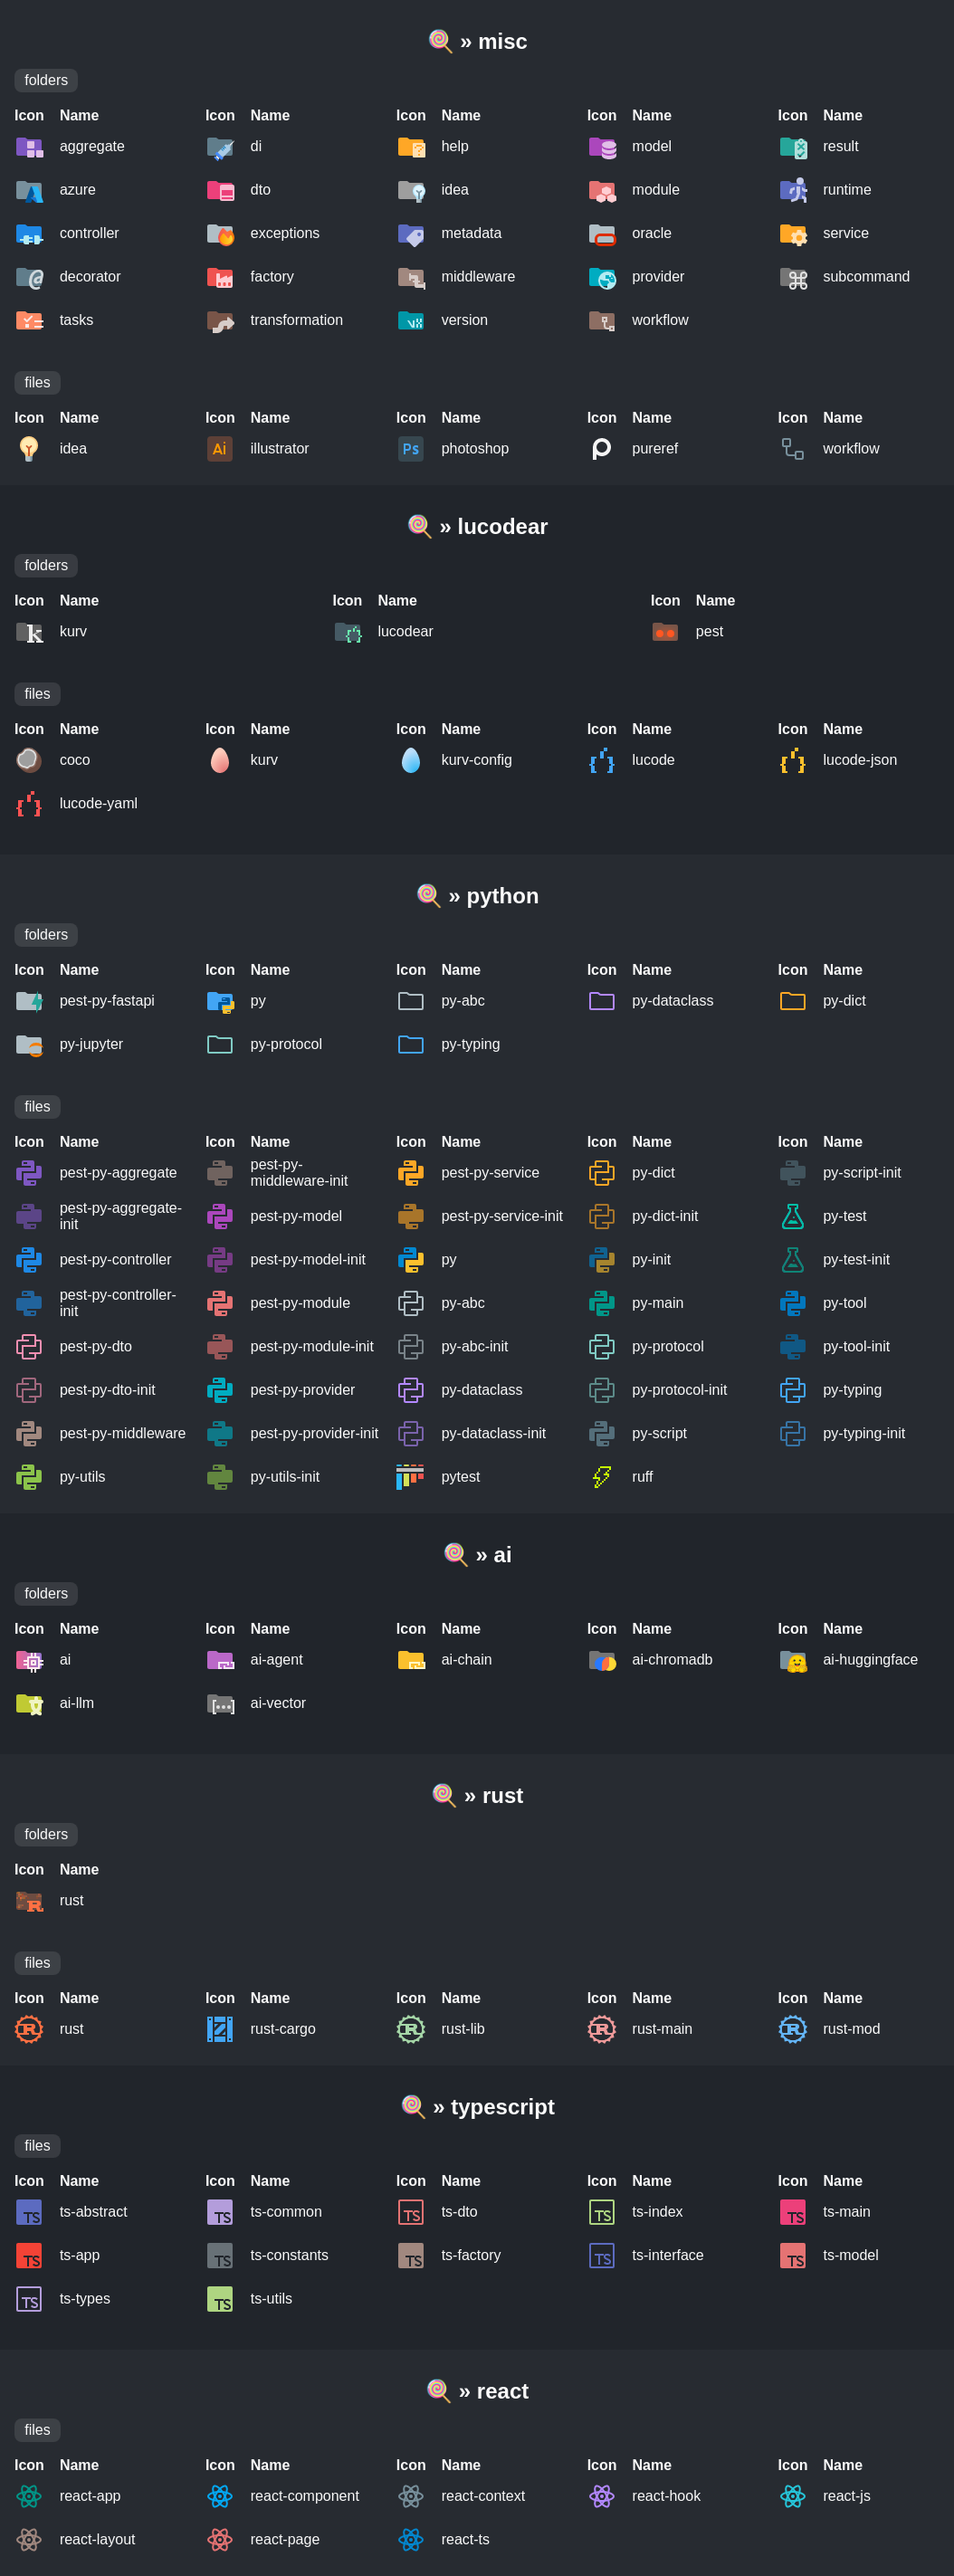
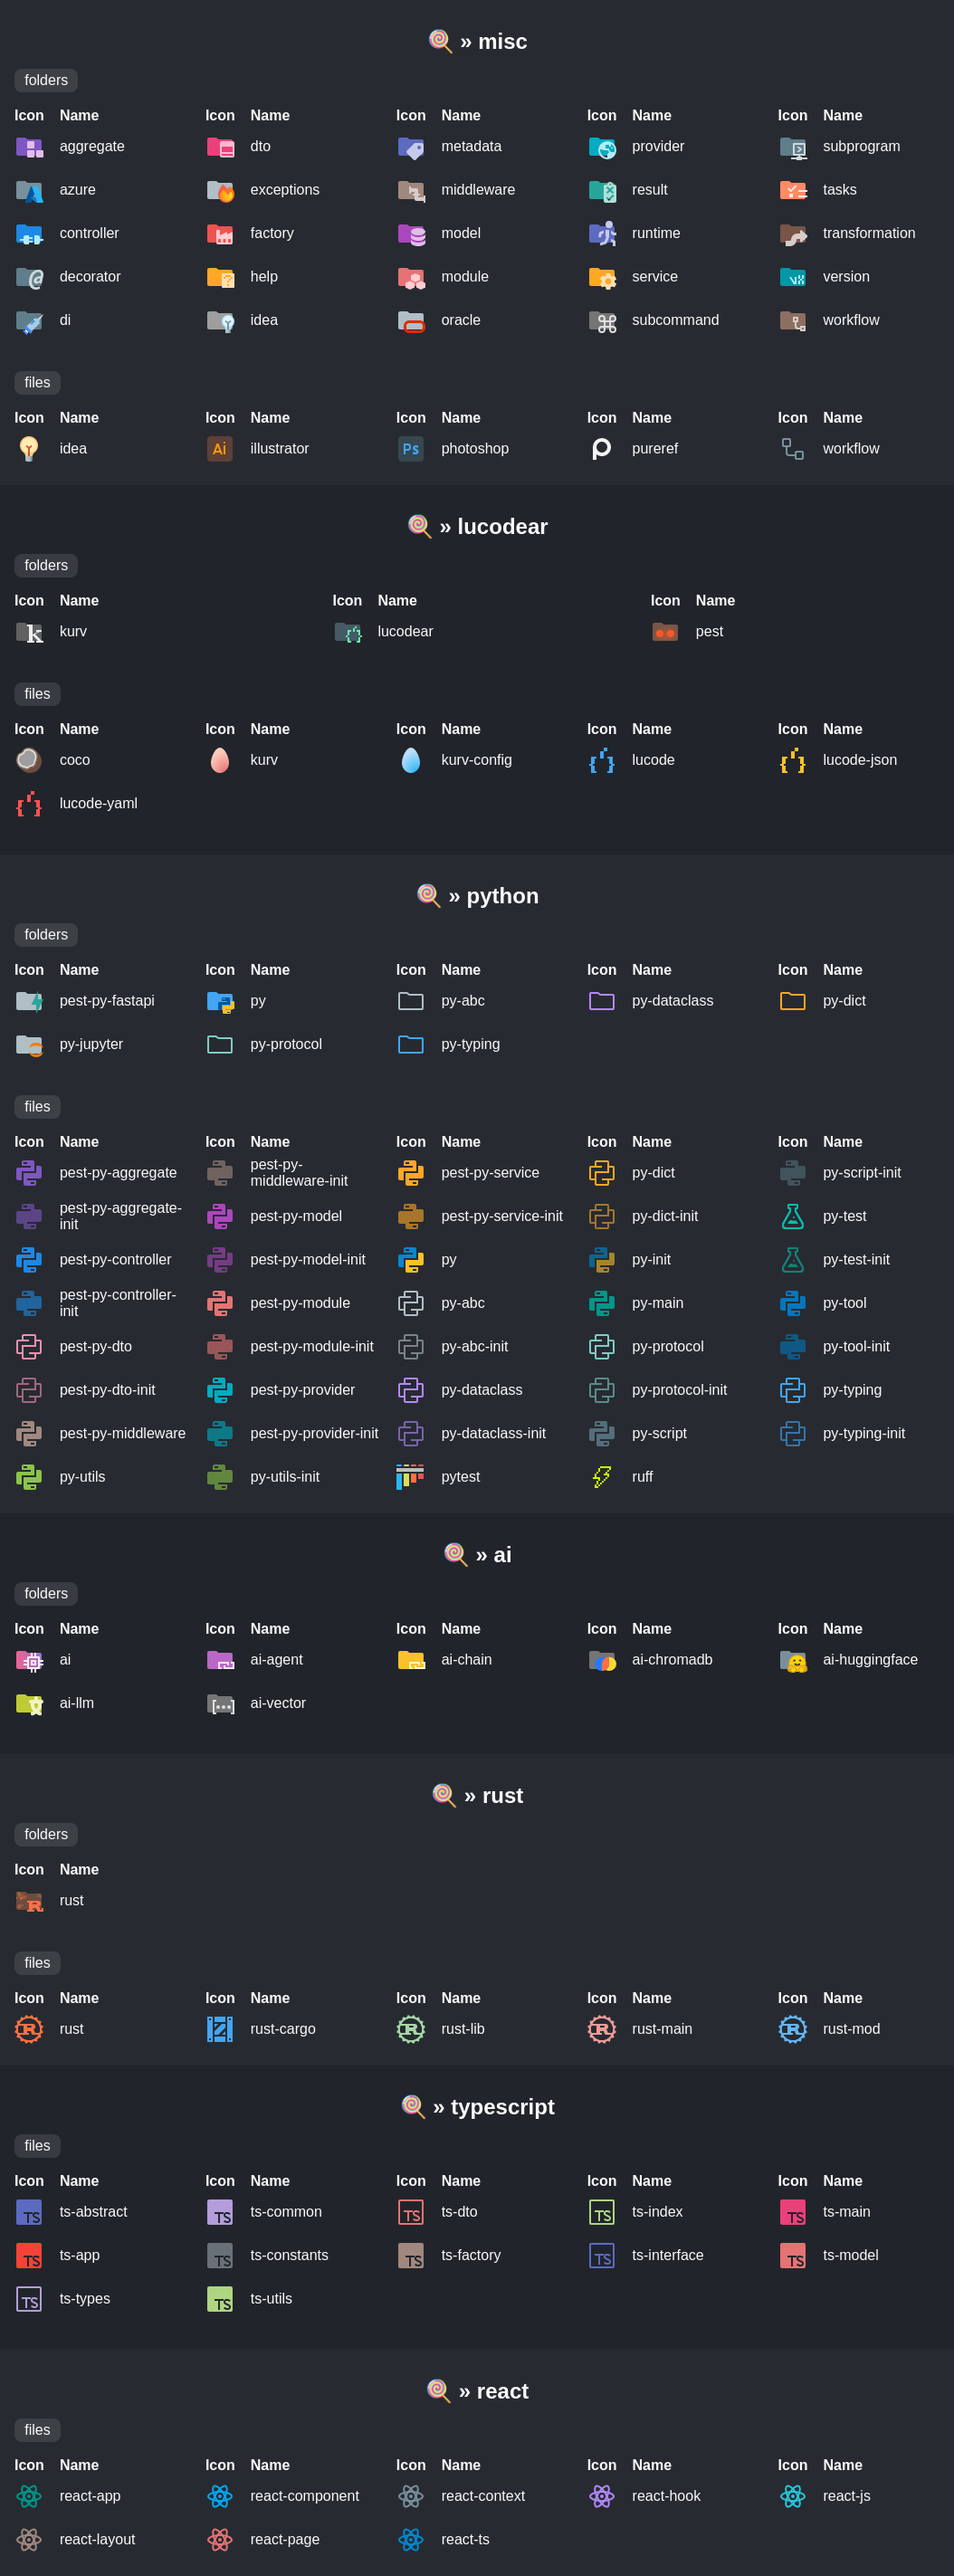
release: 🔖 v0.24.0

diff --git a/CHANGELOG.md b/CHANGELOG.md
@@ -3,10 +3,17 @@
  All notable changes to this project will be documented in this file. Dates are displayed in UTC.
 
  
+#### [v0.24.0](https://github.com/PKief/vscode-material-icon-theme/compare/v0.23.0...v0.24.0) 
+
+> February 21, 2024 
+
+- feat: ✨ subprogram folder [`9fbe87b5`](https://github.com/PKief/vscode-material-icon-theme/commit/9fbe87b5)
+ 
 #### [v0.23.0](https://github.com/PKief/vscode-material-icon-theme/compare/v0.22.0...v0.23.0) 
 
 > February 21, 2024 
 
+- release: 🔖 v0.23.0 [`ba9dade0`](https://github.com/PKief/vscode-material-icon-theme/commit/ba9dade0)
 - feat: ✨ version and help misc folders [`640c6606`](https://github.com/PKief/vscode-material-icon-theme/commit/640c6606)
  
 #### [v0.22.0](https://github.com/PKief/vscode-material-icon-theme/compare/v0.21.0...v0.22.0) 
